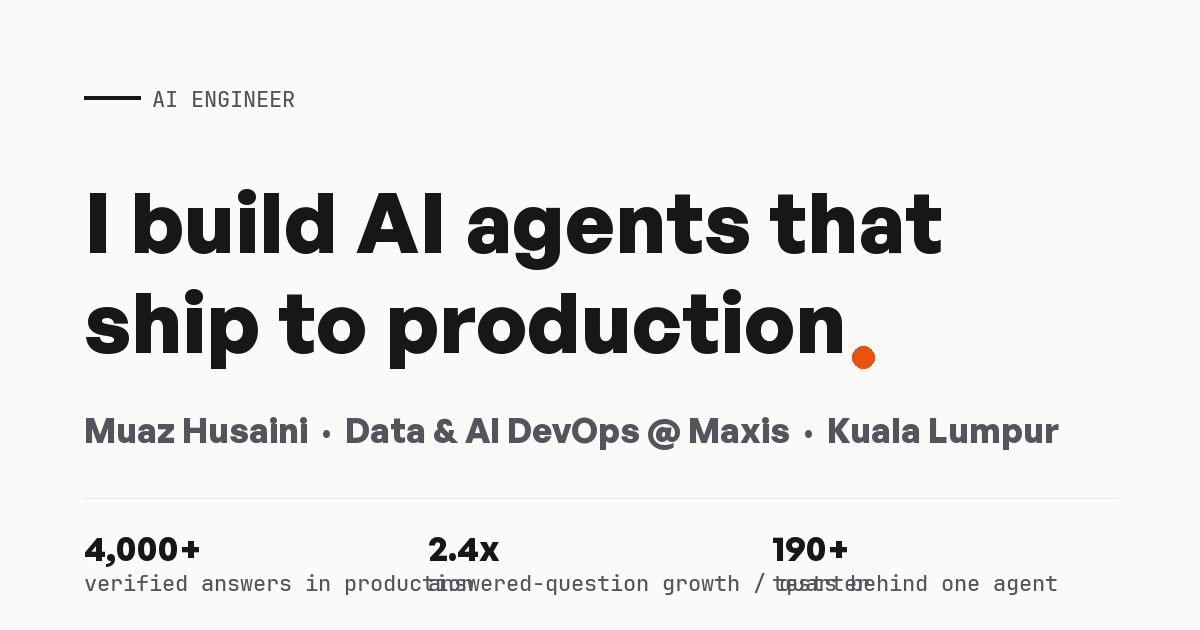
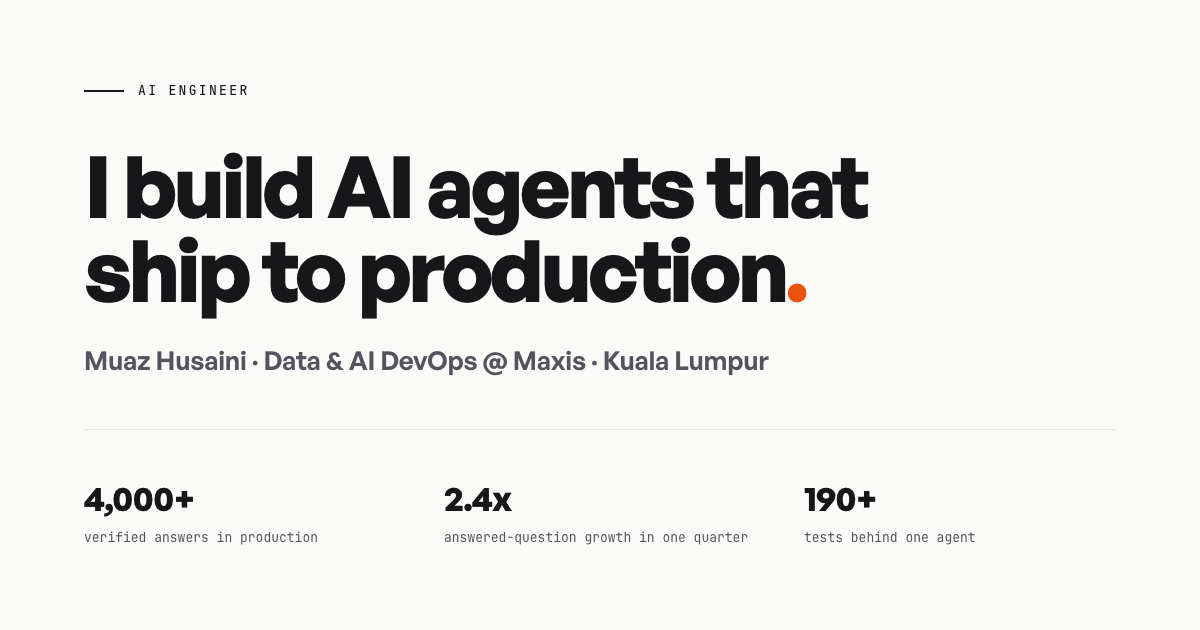
fix: rebuild og-card from a reproducible source
The stat row's three captions overflowed their columns and overlapped, which
is what rendered in every link preview. Lay them out on a three-column grid
and keep the source as og-source.html so the card can be re-rendered.

diff --git a/og-source.html b/og-source.html
@@ -1,0 +1,136 @@
+<!doctype html>
+<html lang="en">
+<head>
+<meta charset="utf-8">
+<title>Muaz Husaini — Open Graph card (1200x630)</title>
+<style>
+  /* Render source for og-card.png (1200x630). Reproduce with:
+     "/Applications/Google Chrome.app/Contents/MacOS/Google Chrome" --headless --disable-gpu \
+       --window-size=1200,630 --default-background-color=00000000 --hide-scrollbars \
+       --screenshot="/Users/muazhusaini/Documents/Project/portfolio/og-card.png" \
+       --virtual-time-budget=3000 \
+       "file:///Users/muazhusaini/Documents/Project/portfolio/og-source.html" */
+
+  @font-face {
+    font-family: "General Sans";
+    src: url("fonts/GeneralSans-Variable.woff2") format("woff2");
+    font-weight: 200 700;
+  }
+  @font-face {
+    font-family: "JetBrains Mono";
+    src: url("fonts/JetBrainsMono-Regular.woff2") format("woff2");
+    font-weight: 400;
+  }
+  @font-face {
+    font-family: "JetBrains Mono";
+    src: url("fonts/JetBrainsMono-Medium.woff2") format("woff2");
+    font-weight: 500;
+  }
+
+  * { margin: 0; padding: 0; box-sizing: border-box; }
+
+  html, body {
+    width: 1200px;
+    height: 630px;
+    margin: 0;
+    overflow: hidden;
+  }
+
+  body {
+    background: #FAFAF9;
+    color: #17171A;
+    font-family: "General Sans", Arial, sans-serif;
+    -webkit-font-smoothing: antialiased;
+    padding: 84px;
+  }
+
+  .eyebrow {
+    display: flex;
+    align-items: center;
+    gap: 14px;
+    font-family: "JetBrains Mono", monospace;
+    font-size: 13px;
+    font-weight: 500;
+    line-height: 1;
+    letter-spacing: 0.18em;
+    text-transform: uppercase;
+  }
+  .eyebrow::before {
+    content: "";
+    width: 40px;
+    height: 2px;
+    background: #17171A;
+  }
+
+  h1 {
+    margin-top: 46px;
+    font-size: 86px;
+    font-weight: 700;
+    letter-spacing: -0.045em;
+    line-height: 0.98;
+  }
+  .sig { color: #E9530E; }
+
+  .sub {
+    margin-top: 32px;
+    font-size: 26px;
+    font-weight: 600;
+    letter-spacing: -0.01em;
+    line-height: 1.3;
+    color: #54545C;
+  }
+
+  .rule {
+    margin-top: 52px;
+    height: 1px;
+    background: #E6E6E4;
+  }
+
+  .stats {
+    margin-top: 50px;
+    display: grid;
+    grid-template-columns: repeat(3, minmax(0, 1fr));
+    align-items: start;
+    gap: 48px;
+  }
+  .stats .val {
+    font-size: 34px;
+    font-weight: 700;
+    letter-spacing: -0.03em;
+    line-height: 1.1;
+  }
+  .stats .cap {
+    margin-top: 10px;
+    font-family: "JetBrains Mono", monospace;
+    font-size: 13px;
+    font-weight: 400;
+    line-height: 1.5;
+    color: #54545C;
+  }
+</style>
+</head>
+<body>
+  <p class="eyebrow">AI Engineer</p>
+
+  <h1>I build AI agents that<br>ship to production<span class="sig">.</span></h1>
+
+  <p class="sub">Muaz Husaini &middot; Data &amp; AI DevOps @ Maxis &middot; Kuala Lumpur</p>
+
+  <div class="rule"></div>
+
+  <div class="stats">
+    <div>
+      <p class="val">4,000+</p>
+      <p class="cap">verified answers in production</p>
+    </div>
+    <div>
+      <p class="val">2.4x</p>
+      <p class="cap">answered-question growth in one quarter</p>
+    </div>
+    <div>
+      <p class="val">190+</p>
+      <p class="cap">tests behind one agent</p>
+    </div>
+  </div>
+</body>
+</html>
